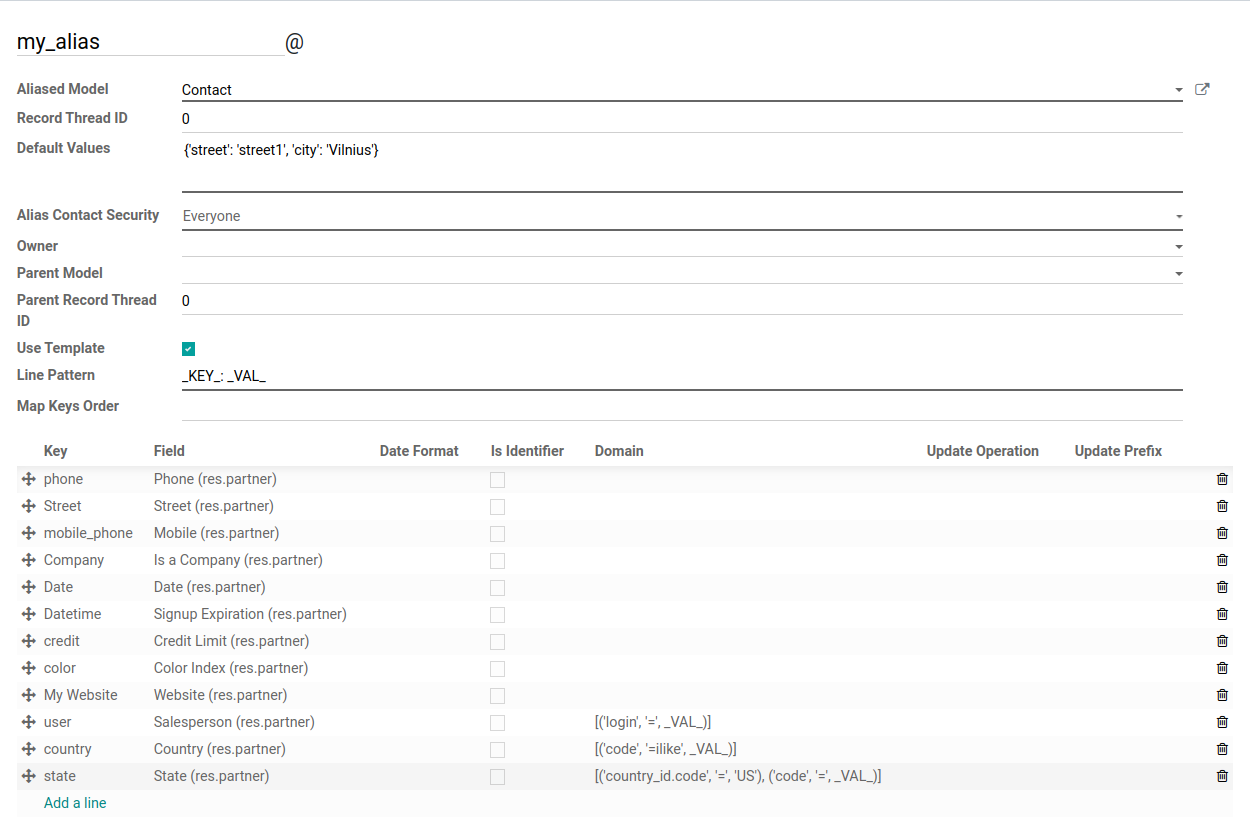
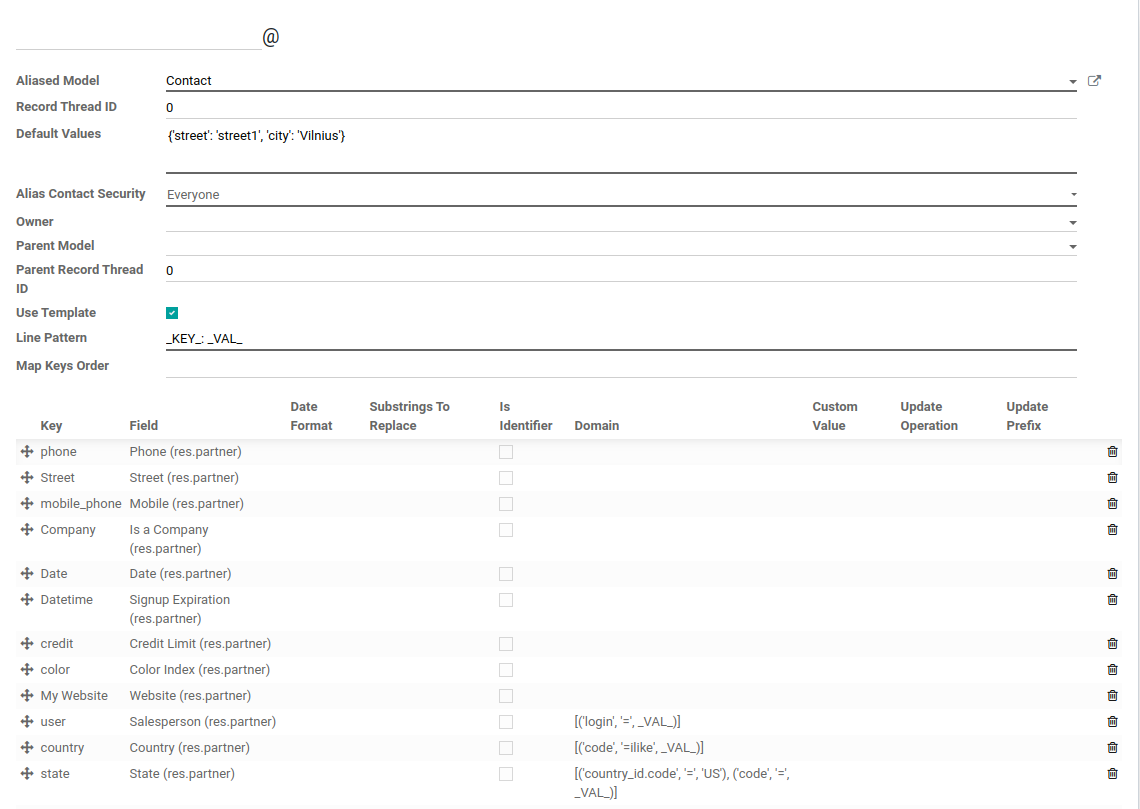
[ADD] discuss/customizations: mail_alias_template
Updated documentation to follow new changes.

diff --git a/discuss/customizations/mail_alias_template.rst b/discuss/customizations/mail_alias_template.rst
@@ -34,6 +34,11 @@ Related record update can be done in two ways:
 * Replying to existing message that was sent from Odoo or message that has a special Message-ID header that Odoo uses in order to identify related record.
 * Using one of the keys as identifier by checking :code:`Is Identifier` option. When message is parsed and if it finds key with this option, it will search another message that has same identifier. If it finds one, it will use that message's related record for update instead of creating new record.
 
+Custom Value
+^^^^^^^^^^^^
+
+If parsed value is not needed to be used or it needs to be modified with prefix/suffix, can use custom value. It will be used instead, but it is also possible to include parsed value with :code:`_VAL_` placeholder.
+
 Update Operation
 ^^^^^^^^^^^^^^^^
 
@@ -48,6 +53,11 @@ Date Format
 
 If mail message is expected to provide dates and date format is different
 than Odoo's format, it is possible to specify what kind of format email message date has, so it could be converted to the one Odoo understands. For formatting details, check field's help description.
+
+Substrings to Replace
+^^^^^^^^^^^^^^^^^^^^^
+
+If value has not wanted symbols that either need to be removed or replaced with expected ones, it is possible to specify substrings replace mapping. It expects dictionary where all keys and values are strings. E.g. :code:`{'old1': 'new1'}`, where :code:`old1` is old substring to be replaced and :code:`new1`, new substring to use in old ones place. If empty string is specified as new string, it will remove old one without adding new substring.
 
 Values Mapping
 ^^^^^^^^^^^^^^
